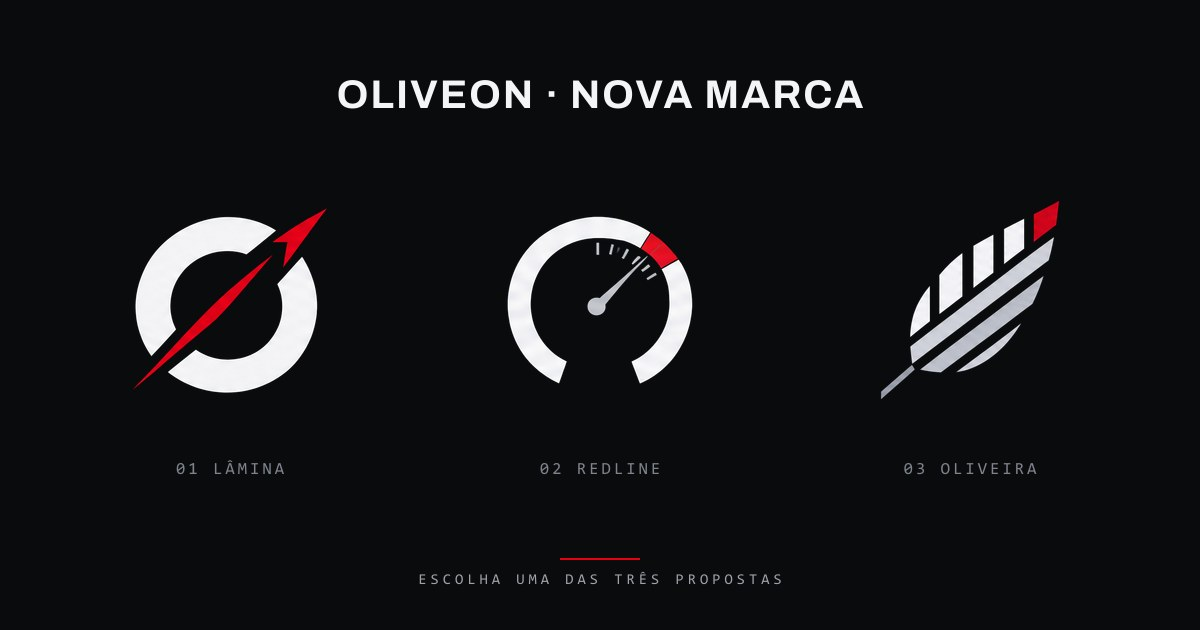
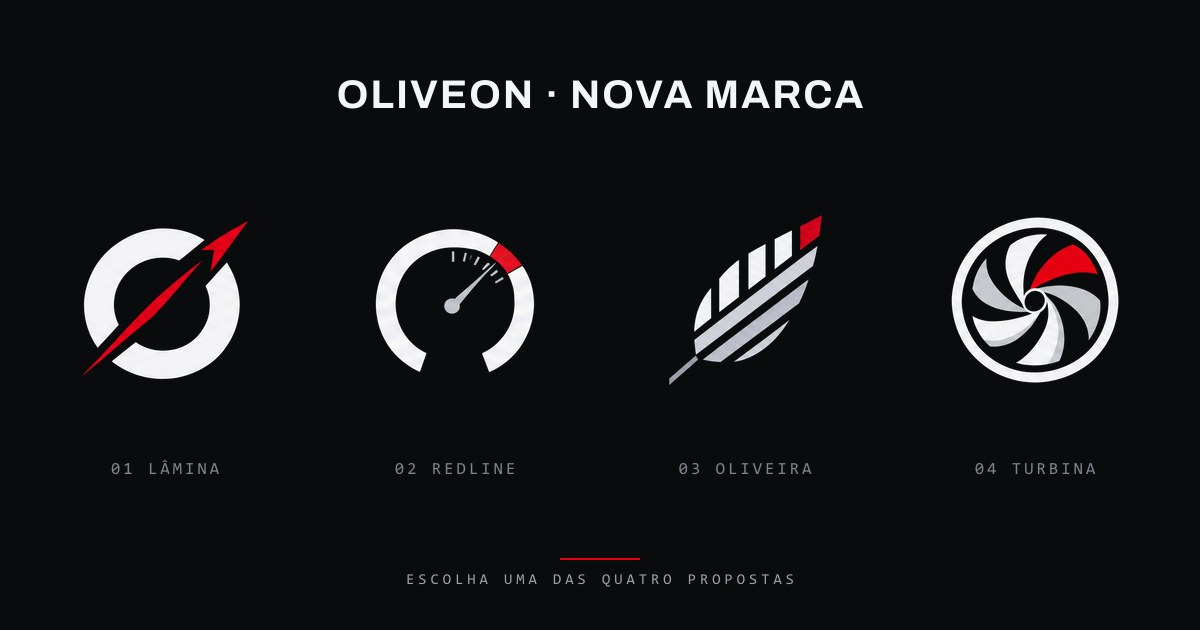
Nova marca: opção 04 Turbina na apresentação, comparativo com as quatro

diff --git a/nova-marca/index.html b/nova-marca/index.html
@@ -5,9 +5,9 @@
 <meta name="viewport" content="width=device-width, initial-scale=1">
 <meta name="robots" content="noindex, nofollow">
 <title>OLIVEON · Nova marca</title>
-<meta name="description" content="Três propostas para a nova marca da OLIVEON Performance: rascunho, arte final e aplicação.">
+<meta name="description" content="Quatro propostas para a nova marca da OLIVEON Performance: rascunho, arte final e aplicação.">
 <meta property="og:title" content="OLIVEON · Nova marca">
-<meta property="og:description" content="Três propostas para escolher: Lâmina, Redline e Oliveira.">
+<meta property="og:description" content="Quatro propostas para escolher: Lâmina, Redline, Oliveira e Turbina.">
 <meta property="og:type" content="website">
 <meta property="og:image" content="https://www.oliveonperformance.com.br/nova-marca/web/og.jpg">
 <meta property="og:image:width" content="1200">
@@ -81,7 +81,7 @@ h1,h2,h3{font-family:var(--display);font-stretch:125%;font-weight:600;letter-spa
 .lista li span{font-family:var(--mono);font-size:11px;color:var(--steel-dim);padding-top:4px}
 .lista li b{color:var(--text);font-weight:500}
 
-.pesquisa{display:grid;grid-template-columns:repeat(5,minmax(0,1fr));gap:14px;margin-top:36px}
+.pesquisa{display:grid;grid-template-columns:repeat(6,minmax(0,1fr));gap:14px;margin-top:36px}
 .pesquisa figure{min-width:0;background:var(--card);border:1px solid var(--border);border-radius:4px;overflow:hidden;display:flex;flex-direction:column}
 .pesquisa img{width:100%;height:150px;object-fit:cover;object-position:top}
 .pesquisa figcaption{padding:14px;font-size:.88rem;color:var(--text-2);line-height:1.5}
@@ -148,7 +148,7 @@ body[data-fundo="claro"] .palco img.neg{opacity:0}
 .leitura .var img{border-radius:2px;border:1px solid var(--border)}
 
 /* Comparativo */
-.comp{display:grid;grid-template-columns:repeat(3,minmax(0,1fr));gap:12px;margin-top:36px}
+.comp{display:grid;grid-template-columns:repeat(4,minmax(0,1fr));gap:12px;margin-top:36px}
 .comp>div{min-width:0;background:var(--card);border:1px solid var(--border);border-radius:4px;padding:24px;display:flex;flex-direction:column;gap:18px}
 .comp .logo{aspect-ratio:16/9;display:grid;place-items:center;background:var(--bg);border-radius:2px}
 .comp .logo img{max-width:80%;max-height:60%;width:auto}
@@ -169,7 +169,8 @@ body[data-fundo="claro"] .palco img.neg{opacity:0}
   .duas,.op-cab{grid-template-columns:minmax(0,1fr);gap:28px}
   .pesquisa{grid-template-columns:repeat(2,minmax(0,1fr))}
   .usos{grid-template-columns:minmax(0,1fr)}
-  .leitura,.comp{grid-template-columns:minmax(0,1fr)}
+  .leitura{grid-template-columns:minmax(0,1fr)}
+  .comp{grid-template-columns:repeat(2,minmax(0,1fr))}
   .processo{grid-template-columns:repeat(2,minmax(0,1fr));row-gap:22px}
 }
 @media (max-width:640px){
@@ -177,6 +178,7 @@ body[data-fundo="claro"] .palco img.neg{opacity:0}
   .topo{padding:56px 0 44px}
   .secao,.op{padding:60px 0}
   .versoes{grid-template-columns:repeat(2,minmax(0,1fr))}
+  .comp{grid-template-columns:minmax(0,1fr)}
   .mocks{grid-template-columns:minmax(0,1fr)}
   .palco{aspect-ratio:4/3}
   .palco img{max-width:84%}
@@ -193,8 +195,8 @@ body[data-fundo="claro"] .palco img.neg{opacity:0}
 <header class="topo">
   <div class="wrap">
     <span class="mono">OLIVEON Performance · Estudo de marca · 03.10.2026</span>
-    <h1>Três caminhos para a <em>nova</em> marca</h1>
-    <p class="lead">Mesma paleta (grafite, prata, branco e o vermelho #E60012), três símbolos com ideias diferentes. Cada opção passou por rascunho, arte final e teste de aplicação em papelaria e na parede da recepção. No fim da página, as três lado a lado no mesmo teste.</p>
+    <h1>Quatro caminhos para a <em>nova</em> marca</h1>
+    <p class="lead">Mesma paleta (grafite, prata, branco e o vermelho #E60012), quatro símbolos com ideias diferentes. Cada opção passou por rascunho, arte final e teste de aplicação em papelaria e na parede da recepção. No fim da página, as quatro lado a lado no mesmo teste.</p>
     <div class="processo">
       <div><span>00</span><strong>Pesquisa</strong><small>Referências e tendências 2026</small></div>
       <div><span>01</span><strong>Rascunho</strong><small>Seis estudos por ideia</small></div>
@@ -212,6 +214,7 @@ body[data-fundo="claro"] .palco img.neg{opacity:0}
       <a href="#o1">01 Lâmina</a>
       <a href="#o2">02 Redline</a>
       <a href="#o3">03 Oliveira</a>
+      <a href="#o4">04 Turbina</a>
       <a href="#comparar">Comparar</a>
     </nav>
     <div class="alterna" role="group" aria-label="Fundo das artes">
@@ -240,6 +243,7 @@ body[data-fundo="claro"] .palco img.neg{opacity:0}
       <figure><a href="web/pin-r2-gauge.webp" target="_blank"><img src="web/pin-r2-gauge.webp" alt="Referências de velocímetro" loading="lazy" width="1400" height="566"></a><figcaption><b>Velocímetro</b>Clichê de banco de imagem. Só vale enxuto e dentro da palavra.</figcaption></figure>
       <figure><a href="web/pin-r4-olive.webp" target="_blank"><img src="web/pin-r4-olive.webp" alt="Referências de folha de oliveira geométrica" loading="lazy" width="1400" height="566"></a><figcaption><b>Folha geométrica</b>E uma folha de estudos que guiou a linguagem dos rascunhos.</figcaption></figure>
       <figure><a href="web/pin-r7-plate.webp" target="_blank"><img src="web/pin-r7-plate.webp" alt="Apresentações de marca em vermelho e preto" loading="lazy" width="1400" height="703"></a><figcaption><b>Vermelho e preto</b>Símbolo simples que vira sistema: cartão, parede, ícone.</figcaption></figure>
+      <figure><a href="web/pin-r14-marketing.webp" target="_blank"><img src="web/pin-r14-marketing.webp" alt="Logos comuns de agências de marketing" loading="lazy" width="1400" height="498"></a><figcaption><b>Marketing de sempre</b>Seta, gráfico, funil e megafone: o padrão que a 04 evita.</figcaption></figure>
     </div>
   </div>
 </section>
@@ -248,15 +252,15 @@ body[data-fundo="claro"] .palco img.neg{opacity:0}
 
 <section class="secao" id="comparar">
   <div class="wrap">
-    <span class="rot"><b>04</b> · Lado a lado</span>
-    <h2>As três, no mesmo teste</h2>
+    <span class="rot"><b>05</b> · Lado a lado</span>
+    <h2>As quatro, no mesmo teste</h2>
     <p class="lead">Embaixo de cada uma, o símbolo em 64, 32 e 16 px, no tamanho real de um ícone de aba. É ali que uma marca prova se aguenta o dia a dia.</p>
     <div class="comp" id="comp"></div>
     <div class="comp claro" id="comp-claro" style="margin-top:12px"></div>
     <div class="recomenda">
       <span class="rot">Leitura da direção de arte</span>
-      <h3>Nossa recomendação: 03 Oliveira</h3>
-      <p>É a única das três que nenhum concorrente tem: nasce do próprio nome, conta uma história (a oliveira cresce por séculos) e ainda fala de dados pelas barras. Se a prioridade for não perder o reconhecimento de quem já conhece a OLIVEON, a 01 Lâmina é a transição mais segura. A 02 Redline comunica "performance" na hora, mas é a que mais se aproxima de ícone pronto.</p>
+      <h3>Nossa recomendação: 04 Turbina</h3>
+      <p>É a que se explica sozinha para quem anuncia: no Brasil, impulsionar é "turbinar", e o símbolo mostra o serviço da agência girando no máximo, com uma forma que nenhuma agência do setor usa. Se a prioridade for uma história de marca mais autoral, a 03 Oliveira, que nasce do próprio nome. Se for não perder o reconhecimento de quem já conhece a OLIVEON, a 01 Lâmina é a transição mais segura. A 02 Redline comunica "performance" na hora, mas é a que mais se aproxima de ícone pronto.</p>
     </div>
     <ul class="passos">
       <li><span>01</span><div><b>Escolha o número da opção</b> (ou diga o que misturar entre elas).</div></li>
@@ -297,8 +301,16 @@ const opcoes = [
     txt: 'OLIVE-ON: a oliveira vive séculos e cresce sempre. A folha é montada com barras que crescem como um gráfico, e só a ponta é vermelha: o resultado que nasce dos dados. Dá à agência uma história própria, que nenhum concorrente de seta e foguete tem.',
     tags: ['Nasce do nome', 'Crescimento que dura', 'Gráfico de barras', 'Vertical'],
     rascunho: 'r3-1', finais: ['f3-2', 'f3-1'], escolhida: 'f3-2', mocks: ['m3a-1', 'm3b-1'],
-    forte: 'O símbolo mais proprietário das três, com história para contar em pitch, site e redes.',
+    forte: 'Um símbolo autoral, que nasce do nome, com história para contar em pitch, site e redes.',
     atencao: 'Folha pode lembrar agro ou sustentabilidade. O grafite, o prata e as barras seguram o lado tecnológico; evitar verde em qualquer peça.',
+  },
+  {
+    id: 'o4', chave: 'turbina', n: '04', nome: 'Turbina', sub: 'O motor do tráfego',
+    txt: 'No Instagram em português, impulsionar um anúncio é apertar o botão "Turbinar". O O de OLIVEON vira uma turbina vista de frente, girando no máximo: o serviço da agência dito sem nenhuma palavra. O giro também é o flywheel, o modelo de crescimento em que cada volta dá mais impulso, e a pá vermelha, a maior, é o resultado puxando o motor. De quebra, lê como obturador de câmera: criativo, vídeo e anúncio.',
+    tags: ['Turbinar anúncio', 'Flywheel de crescimento', 'Obturador: criativo e vídeo', 'Horizontal'],
+    rascunho: 'r4-1', finais: ['f4-1', 'f4-2'], escolhida: 'f4-1', mocks: ['m4a-1', 'm4b-1'],
+    forte: 'A ideia mais fácil de contar para quem anuncia: todo mundo já apertou "Turbinar". O anel segura a forma de "O" em qualquer tamanho.',
+    atencao: 'As pás ainda têm tamanhos parecidos. Na vetorização, o crescimento de uma pá para a outra fica mais visível, porque é isso que torna o símbolo único. Em tamanho de ícone de aba, as pás viram um giro e quem segura a leitura são o anel e a pá vermelha.',
   },
 ];
 
@@ -310,7 +322,7 @@ const html = opcoes.map((o) => {
   <div class="wrap">
     <div class="op-cab">
       <div>
-        <span class="idx">${o.n} / 03</span>
+        <span class="idx">${o.n} / 04</span>
         <h2>${o.nome}</h2>
         <span class="sub">${o.sub}</span>
       </div>
